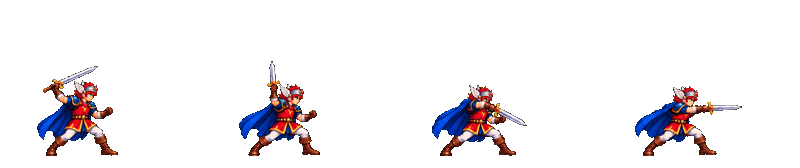
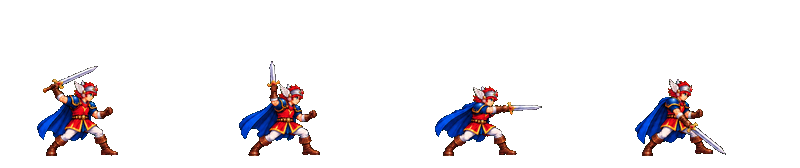
Zeliard: full sword follow-through, blade-true trail, live updates for installed apps

Changed region(s): [[0.7812, 0.4762, 0.9375, 0.9226], [0.5312, 0.506, 0.6875, 0.9226]]

diff --git a/public/zeliard/game/src/game/hero.js b/public/zeliard/game/src/game/hero.js
@@ -453,45 +453,84 @@ export class Hero {
   }
 }
 
-// The sword's sweep, like the original's swing graphics (a curved blade trail per frame, white,
-// cyan or gold by sword): an arc around the shoulder that follows the swing phase. Angles are
-// for facing right (canvas: -90° is straight up, 180° behind).
-// Where the painted blade points in each art cell (hero_combat: forward swing cells 0-3, overhead
-// 4-7); the trail's leading edge follows the blade. (The crouching swing has its own painted sweep.)
+// The sword's sweep, like the original's swing graphics (a curved blade trail, white, cyan or gold
+// by sword): a smear of the blade itself, from the grip to the tip, over the last part of the swing.
+// `blade` is where the painted blade lies in each art cell, measured from the sheets: [grip x, grip y,
+// tip x, tip y] in px from the feet, facing right (hero_combat: forward swing cells 0, 1, 3, 7 —
+// wound up, overhead, level, then down through the follow-through — and overhead 4-7). Between
+// cells the blade turns about the shoulder (SHOULDER), so the trail is a round arc whose leading
+// edge sits on the drawn blade. `from` is the first cell that cuts (the forward swing's wind-up
+// doesn't). The crouching swing has its own painted sweep.
+const SHOULDER = [-10, -60];
 const SWOOSH = {
-  slash: [-160, -90, -10, 5],
-  overhead: [-185, -90, -45, 50],
+  slash: { from: 1, blade: [[-49, -69, -5, -89], [-27, -73, -29, -94], [9, -49, 39, -49], [-12, -29, 24, -4]] },
+  overhead: { from: 0, blade: [[-22, -74, -56, -68], [-23, -78, -23, -98], [11, -72, 34, -92], [-12, -29, 24, -4]] },
 };
+// Each blade key as polar coordinates about the shoulder: [grip angle, grip r, tip angle, tip r],
+// with the angles unwrapped so they only ever increase (the swings all turn clockwise).
+const polar = (x, y) => [Math.atan2(y - SHOULDER[1], x - SHOULDER[0]), Math.hypot(x - SHOULDER[0], y - SHOULDER[1])];
+for (const s of Object.values(SWOOSH)) {
+  let pg = -Infinity, pt = -Infinity;
+  s.keys = s.blade.map(([gx, gy, tx, ty]) => {
+    let [ga, gr] = polar(gx, gy), [ta, tr] = polar(tx, ty);
+    while (ga < pg - 0.3) ga += Math.PI * 2;
+    while (ta < pt - 0.3) ta += Math.PI * 2;
+    pg = ga; pt = ta;
+    return [ga, gr, ta, tr];
+  });
+}
 const SWORD_TINT = {
   training_sword: '235,240,255', knights_sword: '235,240,255', wise_mans_sword: '110,240,255',
   illumination_sword: '110,240,255', spirit_sword: '255,230,90', enchantment_sword: '255,210,60',
 };
 function drawSwoosh(x, y, dir, atk, crouch, sword, reach) {
-  const path = SWOOSH[atk.kind];
-  if (!path) return;
-  const a = ATTACKS[atk.kind];
-  // Cell k is on screen for u in [k, k+1); the blade matches path[k] mid-cell.
-  const u = Math.min(path.length - 0.5, Math.max(0.5, Math.max(0, (atk.t - a.t0) / (a.t1 - a.t0)) * path.length)) - 0.5;
-  const i = Math.min(path.length - 2, Math.floor(u));
-  const fade = atk.t > a.t1 ? Math.max(0, 1 - (atk.t - a.t1) / 0.07) : 1;
-  if (fade <= 0) return;
-  const deg = path[i] + (path[i + 1] - path[i]) * Math.min(1, u - i);
-  const end = deg * Math.PI / 180, start = Math.max(path[0] - 30, deg - 120) * Math.PI / 180;
-  const r = 50 + reach * 0.8;
+  const sw = SWOOSH[atk.kind];
+  if (!sw || crouch) return;
+  const a = ATTACKS[atk.kind], keys = sw.keys, n = keys.length;
+  // Cell k is on screen for u in [k, k+1); the blade matches key k mid-cell.
+  const lead = Math.min(n - 1, Math.max(0, Math.max(0, (atk.t - a.t0) / (a.t1 - a.t0)) * n - 0.5));
+  if (lead <= sw.from) return;
+  // Once the blade has stopped the trail drains into it and is gone in 0.12 s.
+  const after = Math.max(0, atk.t - a.t1) / 0.12;
+  if (after >= 1) return;
+  const len = 1.6 * (1 - after);
+  const tail = Math.max(sw.from, lead - len);
+  const at = (u) => {
+    const i = Math.min(n - 2, Math.floor(u)), f = u - i, k0 = keys[i], k1 = keys[i + 1];
+    const m = (j) => k0[j] + (k1[j] - k0[j]) * f;
+    return [m(0), m(1), m(2), m(3)];
+  };
+  const extra = reach * 0.6; // Knight's and Illumination swords reach a tile further
   const rgb = SWORD_TINT[sword] || SWORD_TINT.training_sword;
   ctx.save();
-  ctx.translate(x, y - (crouch ? 34 : 58));
+  ctx.translate(x + dir * SHOULDER[0], y + SHOULDER[1]);
   if (dir < 0) ctx.scale(-1, 1);
   ctx.globalCompositeOperation = 'lighter';
-  ctx.lineCap = 'butt';
-  // A crescent: thick and bright at the blade, thinning and fading along the trail.
-  const N = 24;
-  for (let j = 0; j < N; j++) {
-    const t0 = j / N, t1 = (j + 1) / N;
-    ctx.strokeStyle = `rgba(${rgb},${(0.08 + 0.85 * t1 * t1) * fade})`;
-    ctx.lineWidth = 1.5 + 7 * t1;
+  // A crescent between the grip's path and the tip's path: bright at the blade, fading behind it.
+  const N = 28;
+  let prev = at(tail);
+  for (let j = 1; j <= N; j++) {
+    const s = j / N, cur = at(tail + (lead - tail) * s);
+    const pt = (k, out) => [Math.cos(k[out ? 2 : 0]) * (k[out ? 3 : 1] + (out ? extra : 0)), Math.sin(k[out ? 2 : 0]) * (k[out ? 3 : 1] + (out ? extra : 0))];
+    // Mostly the outer half of the blade: the hilt end moves little and would muddy the body.
+    const inner = (k) => { const g = pt(k, false), t = pt(k, true); return [g[0] + (t[0] - g[0]) * 0.35, g[1] + (t[1] - g[1]) * 0.35]; };
+    const p0 = inner(prev), p1 = pt(prev, true), p2 = pt(cur, true), p3 = inner(cur);
+    ctx.fillStyle = `rgba(${rgb},${(0.03 + 0.34 * s * s) * (1 - after)})`;
     ctx.beginPath();
-    ctx.arc(0, 0, r - 4 * (1 - t1), start + (end - start) * t0, start + (end - start) * t1);
+    ctx.moveTo(p0[0], p0[1]); ctx.lineTo(p1[0], p1[1]); ctx.lineTo(p2[0], p2[1]); ctx.lineTo(p3[0], p3[1]);
+    ctx.closePath(); ctx.fill();
+    prev = cur;
+  }
+  // A bright edge along the path of the tip.
+  ctx.strokeStyle = `rgba(${rgb},${0.75 * (1 - after)})`;
+  ctx.lineCap = 'round';
+  for (let j = 1; j <= N; j++) {
+    const s0 = (j - 1) / N, s1 = j / N, k0 = at(tail + (lead - tail) * s0), k1 = at(tail + (lead - tail) * s1);
+    ctx.globalAlpha = s1;
+    ctx.lineWidth = 1 + 2.5 * s1;
+    ctx.beginPath();
+    ctx.moveTo(Math.cos(k0[2]) * (k0[3] + extra), Math.sin(k0[2]) * (k0[3] + extra));
+    ctx.lineTo(Math.cos(k1[2]) * (k1[3] + extra), Math.sin(k1[2]) * (k1[3] + extra));
     ctx.stroke();
   }
   ctx.restore();

diff --git a/public/zeliard/game/src/core/update.js b/public/zeliard/game/src/core/update.js
@@ -1,0 +1,66 @@
+// Live updates for the published site and the home-screen app. There is no service worker, and the
+// host caches every file for 10 minutes, so a copy left open (or reopened from the home screen
+// within that window) would keep running the old build, or a mix of old and new files.
+//
+// tools/publish_site.mjs stamps the page with window.ZELIARD_BUILD and writes game/version.json:
+// { build, files: { "game/src/x.js": hash, ... } } (paths from the site root). This checks that
+// file (never cached) at launch, when the app comes back to the front, and every 10 minutes. When
+// the build has moved on it re-downloads the changed files into the browser cache, then reloads,
+// but only on the opening or title screen, so nobody loses a run in a cavern; until then a toast
+// says an update is waiting. Running from the dev server (no stamp) does nothing.
+const KEY = 'beliards.files';
+const ONCE = 'beliards.reloadedFor';
+const TEXT = /\.(js|json|html|webmanifest|css)$/;
+
+let pending = null; // the newer version.json, fetched and ready to apply
+let busy = false, told = false;
+
+const store = {
+  get(k, s = localStorage) { try { return JSON.parse(s.getItem(k)); } catch { return null; } },
+  set(k, v, s = localStorage) { try { s.setItem(k, JSON.stringify(v)); } catch { /* private mode */ } },
+};
+const url = (rel) => new URL(`../${rel}`, document.baseURI).href;
+
+async function check() {
+  if (!window.ZELIARD_BUILD || busy || pending) return;
+  let v;
+  try { v = await (await fetch(new URL('version.json', document.baseURI), { cache: 'no-store' })).json(); } catch { return; }
+  if (!v || !v.build || !v.files) return;
+  if (v.build === window.ZELIARD_BUILD) { store.set(KEY, v.files); return; } // up to date: remember what this build is
+  if (store.get(ONCE, sessionStorage) === v.build) return; // already reloaded for it once (host still propagating)
+  pending = v;
+}
+
+// Pull every file that differs from the build we last ran into the HTTP cache, so the reload gets
+// new copies rather than 10-minute-old ones. With nothing remembered (first run of the update
+// code), refresh all code and data: they're small, and a mix of old and new code is what breaks.
+async function apply(game) {
+  const v = pending;
+  busy = true;
+  const old = store.get(KEY) || {};
+  const have = Object.keys(old).length > 0;
+  const changed = Object.keys(v.files).filter((f) => (have ? old[f] !== v.files[f] : TEXT.test(f)));
+  changed.push('game/', 'game/index.html');
+  game?.toast?.('Updating Zeliard…', '#8fe3ff');
+  let i = 0;
+  const worker = async () => { while (i < changed.length) { const f = changed[i++]; try { await fetch(url(f), { cache: 'reload' }); } catch { /* offline: the reload still tries */ } } };
+  await Promise.all(Array.from({ length: 6 }, worker));
+  store.set(KEY, v.files);
+  store.set(ONCE, v.build, sessionStorage);
+  location.reload();
+}
+
+const safe = (game) => { const n = game.scene?.constructor?.name; return n === 'OpeningScene' || n === 'TitleScene'; };
+
+export function watchForUpdates(game) {
+  if (!window.ZELIARD_BUILD) return;
+  check();
+  setInterval(check, 10 * 60 * 1000);
+  document.addEventListener('visibilitychange', () => { if (!document.hidden) check(); });
+  // Apply at a safe moment; checked twice a second, which is plenty.
+  setInterval(() => {
+    if (!pending || busy) return;
+    if (safe(game) && !game.coop) apply(game);
+    else if (!told) { told = true; game.toast?.('A new version is ready. It loads when you return to the title screen.', '#8fe3ff'); }
+  }, 500);
+}

diff --git a/public/zeliard/game/src/main.js b/public/zeliard/game/src/main.js
@@ -8,6 +8,7 @@ import { loadShieldArt } from './game/shields.js';
 import { settings } from './core/save.js';
 import { params } from './core/util.js';
 import { Game } from './game/game.js';
+import { watchForUpdates } from './core/update.js';
 
 const bootEl = document.getElementById('boot');
 
@@ -37,6 +38,7 @@ async function boot() {
   await game.init();
   bootEl.classList.add('gone');
   setupTouch();
+  watchForUpdates(game);
   const unlock = () => audio.unlock();
   window.addEventListener('keydown', unlock);
   window.addEventListener('pointerdown', unlock);

diff --git a/public/zeliard/game/index.html b/public/zeliard/game/index.html
@@ -1,6 +1,7 @@
 <!doctype html>
 <html lang="en">
 <head>
+<script>window.ZELIARD_BUILD = '20261002T0427-d188a4b';</script>
 <meta charset="utf-8">
 <meta name="viewport" content="width=device-width,initial-scale=1,viewport-fit=cover">
 <title>Zeliard — Remastered</title>
